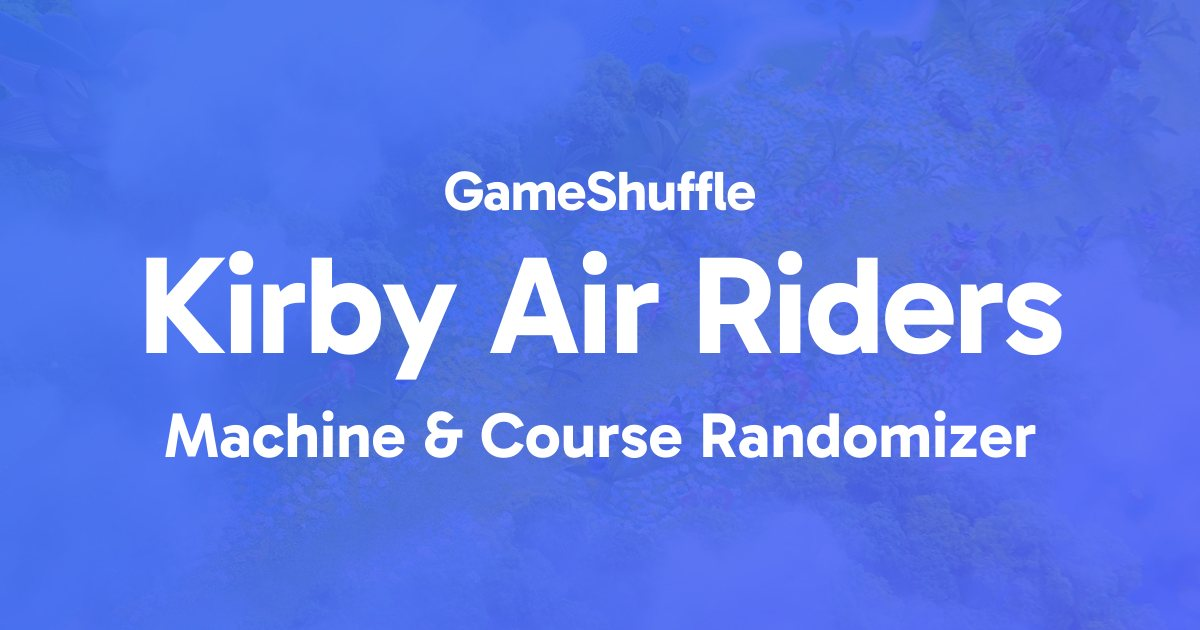
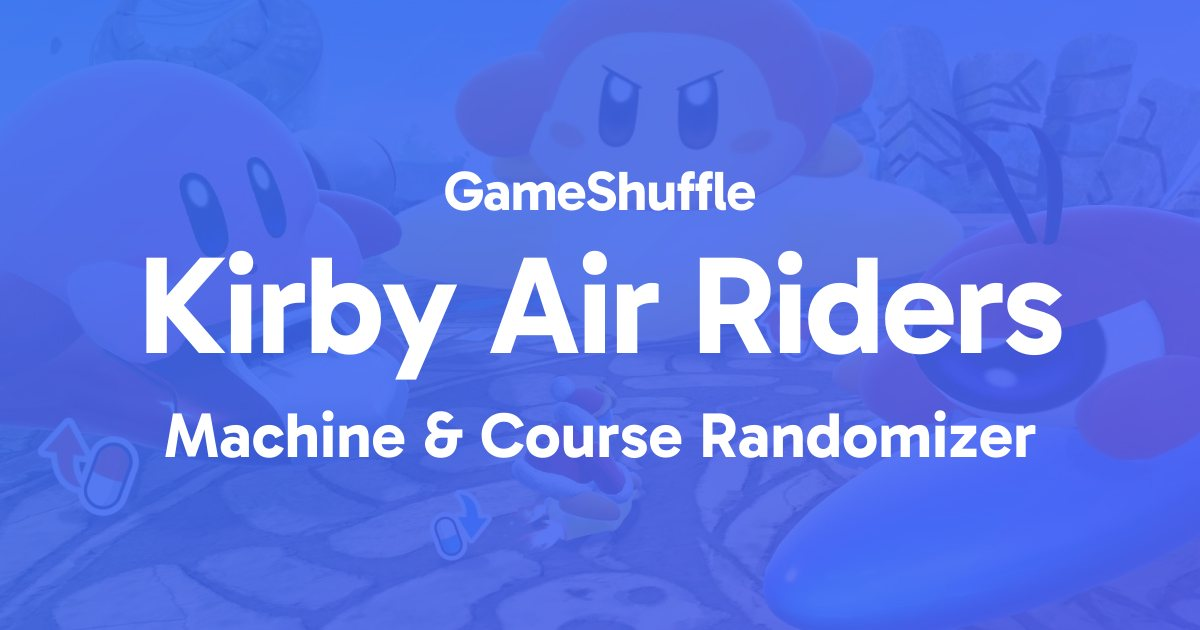
feat(kirby): character art for the Kirby Air Riders header
The header was the banner's background alone (a flowery course from
above, no characters). It's now the official Big Battle artwork without
its title (WiKirby): Kirby, Waddle Dee, Waddle Doo and King Dedede on
their machines. The share image uses it too; the catalog card keeps the
banner. New filename so cached copies of the old header can't linger.

diff --git a/scripts/render-randomizer-og.tsx b/scripts/render-randomizer-og.tsx
@@ -19,7 +19,7 @@ const SPECS: { slug: string; title: string; sub: string; art: string; size?: num
   { slug: "overwatch", title: "Overwatch", sub: "Hero Randomizer", art: "public/images/overwatch/overwatch-keyart.webp" },
   { slug: "marvel-rivals", title: "Marvel Rivals", sub: "Hero Randomizer", art: "public/images/marvel-rivals/marvel-rivals-keyart.webp" },
   { slug: "super-smash-bros-ultimate", title: "Smash Ultimate", sub: "Fighter Randomizer", art: `${CDN}/standard/smash-bros-ultimate-cast-artwork.jpg` },
-  { slug: "kirby-air-riders", title: "Kirby Air Riders", sub: "Machine & Course Randomizer", art: "public/images/kirby-air-riders/kirby-air-riders-header.webp", size: 140 },
+  { slug: "kirby-air-riders", title: "Kirby Air Riders", sub: "Machine & Course Randomizer", art: "public/images/kirby-air-riders/kirby-air-riders-big-battle.webp", size: 140 },
   { slug: "splatoon-3", title: "Splatoon 3", sub: "Weapon & Stage Randomizer", art: "public/images/splatoon-3/splatoon-3-keyart.webp" },
   { slug: "goldeneye-007", title: "GoldenEye 007", sub: "Match Randomizer", art: "public/images/goldeneye/maps/facility.webp" },
   { slug: "pokemon-stadium", title: "Pokémon Stadium", sub: "Rental Randomizer", art: `${CDN}/pokemon-apps/pokemon-stadium-thumb.jpg`, size: 126, crop: [0, 0.45, 1, 0.55] },

diff --git a/src/data/game-art.ts b/src/data/game-art.ts
@@ -57,9 +57,9 @@ export const GAME_ART: Record<string, GameArt> = {
     cover: "/images/perfect-dark/perfect-dark-keyart.webp",
   },
   "kirby-air-riders": {
-    /* Official banner from WiKirby (File:KARs_Banner.png). The header uses its background alone
-       (File:KARs_Banner_Background.jpg) because our title already names the game; the card keeps the logo. */
-    hero: { src: "/images/kirby-air-riders/kirby-air-riders-header.webp", alt: "Kirby Air Riders artwork of a flowery Air Ride course from above", width: 1440, height: 836 },
+    /* Header: the official Big Battle artwork without its title (WiKirby, File:KARs_Big_Battle_3_titleless_artwork.png).
+       Card: the official banner (File:KARs_Banner.png), logo and all. */
+    hero: { src: "/images/kirby-air-riders/kirby-air-riders-big-battle.webp", alt: "Kirby Air Riders artwork of Kirby, Waddle Dee, Waddle Doo and King Dedede riding their machines", width: 1600, height: 900 },
     cover: "/images/kirby-air-riders/kirby-air-riders-keyart.webp",
   },
   "splatoon-3": {
